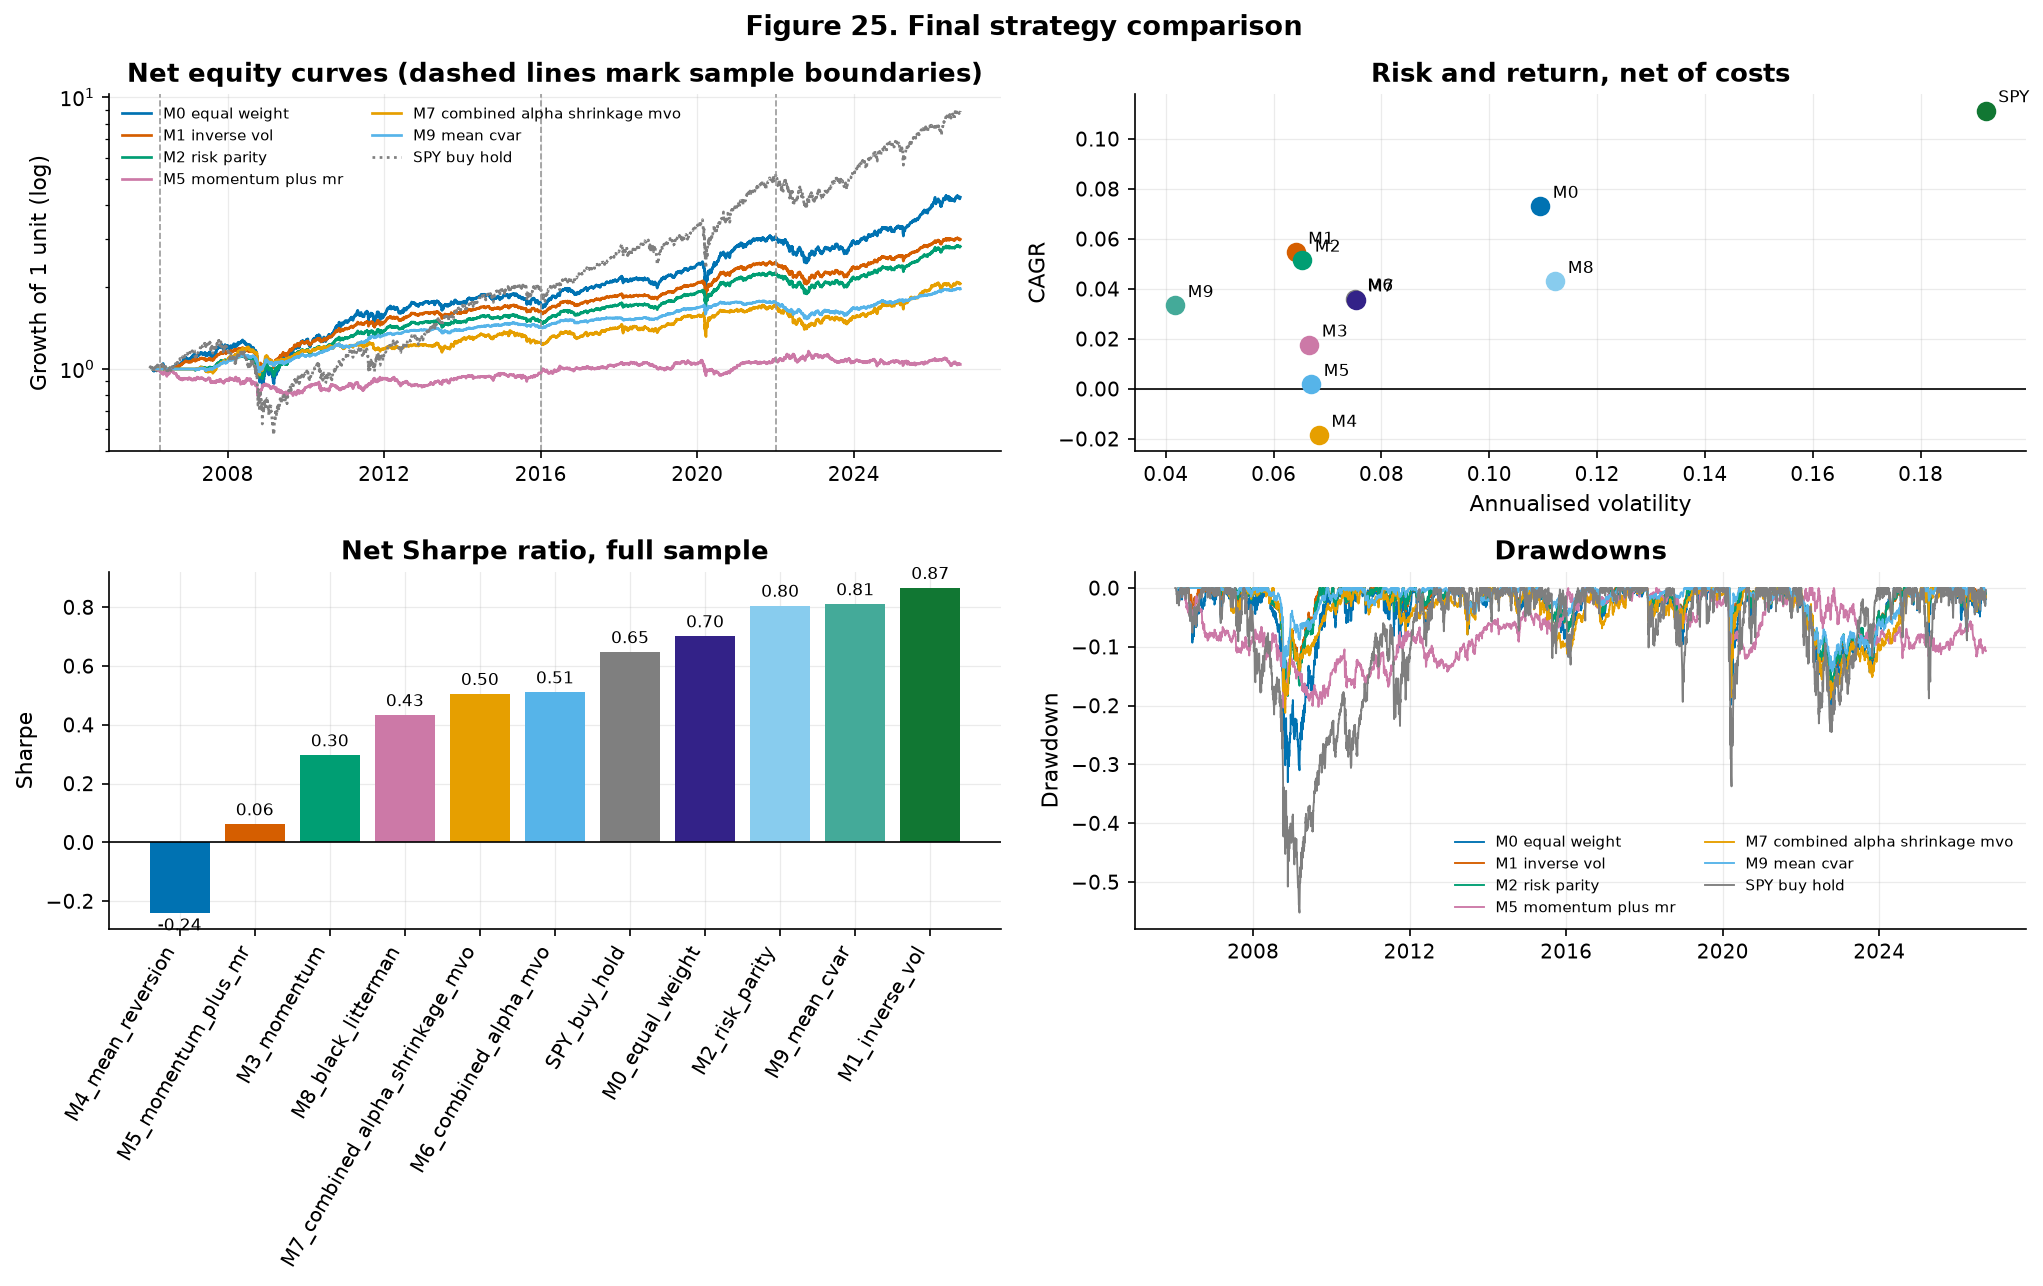
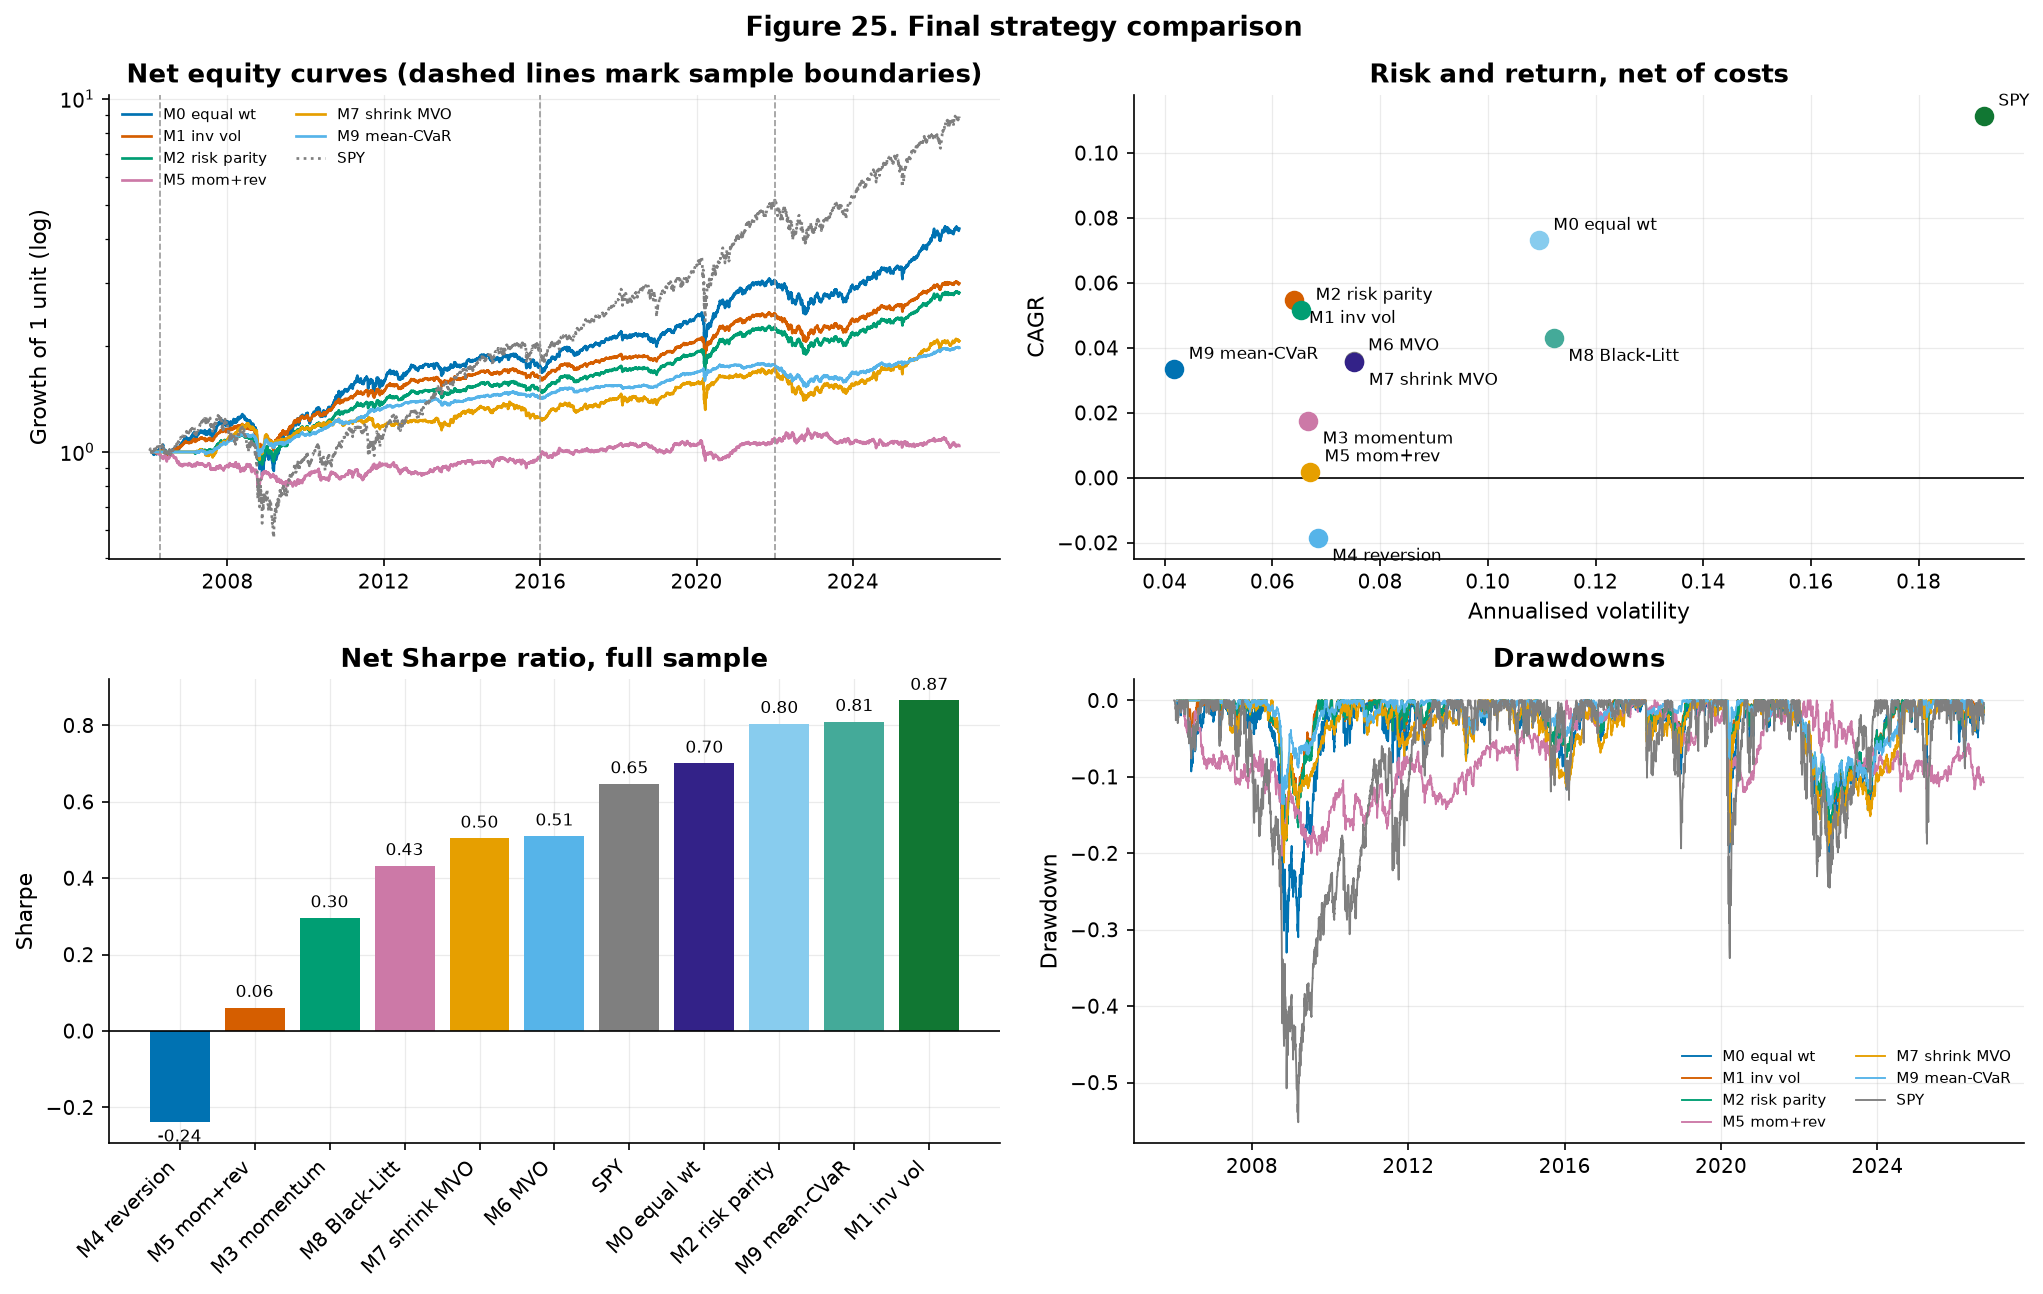
Readable labels in the final comparison figure
M6 and M7 sit almost on top of each other in risk/return space and their
labels overprinted; offsets now alternate. Model names are shortened for the
axis so the Sharpe bars are not buried under 30-character labels.

Claude-Session: https://claude.ai/code/session_01DSSeu1FozHnuA5rm1CsBZd

diff --git a/experiments/stage12_results.py b/experiments/stage12_results.py
@@ -33,6 +33,24 @@ ALL_MODELS = ["M0_equal_weight", "M1_inverse_vol", "M2_risk_parity", "M3_momentu
               "M7_combined_alpha_shrinkage_mvo", "M8_black_litterman", "M9_mean_cvar"]
 
 
+def short_label(name: str) -> str:
+    """Compact axis label: 'M7_combined_alpha_shrinkage_mvo' -> 'M7 shrink mvo'."""
+    aliases = {
+        "M0_equal_weight": "M0 equal wt",
+        "M1_inverse_vol": "M1 inv vol",
+        "M2_risk_parity": "M2 risk parity",
+        "M3_momentum": "M3 momentum",
+        "M4_mean_reversion": "M4 reversion",
+        "M5_momentum_plus_mr": "M5 mom+rev",
+        "M6_combined_alpha_mvo": "M6 MVO",
+        "M7_combined_alpha_shrinkage_mvo": "M7 shrink MVO",
+        "M8_black_litterman": "M8 Black-Litt",
+        "M9_mean_cvar": "M9 mean-CVaR",
+        "SPY_buy_hold": "SPY",
+    }
+    return aliases.get(name, name.replace("_", " "))
+
+
 def figure_final(context, streams, samples, table, path):
     fig, axes = new_axes(2, 2, figsize=(13.8, 8.8))
 
@@ -40,7 +58,7 @@ def figure_final(context, streams, samples, table, path):
         curve = cumulative_returns(series.dropna())
         style = "-" if not name.startswith("SPY") else ":"
         axes[0, 0].plot(curve.index, curve.to_numpy(), style, color=PALETTE[i % len(PALETTE)],
-                        linewidth=1.3, label=name.replace("_", " "))
+                        linewidth=1.3, label=short_label(name))
     for window in samples.values():
         if window.start is not None:
             axes[0, 0].axvline(window.start, color="#999999", linestyle="--", linewidth=0.8)
@@ -49,25 +67,29 @@ def figure_final(context, streams, samples, table, path):
     axes[0, 0].set_title("Net equity curves (dashed lines mark sample boundaries)")
     axes[0, 0].legend(ncol=2, fontsize=7)
 
-    risk_return = table.dropna(subset=["ann_vol", "cagr"])
+    risk_return = table.dropna(subset=["ann_vol", "cagr"]).sort_values("ann_vol")
+    # Alternate the label offset so near-identical points (M6/M7 sit almost on
+    # top of each other) stay readable instead of overprinting.
     for i, (name, row) in enumerate(risk_return.iterrows()):
         axes[0, 1].scatter(row["ann_vol"], row["cagr"], s=70, color=PALETTE[i % len(PALETTE)],
                            zorder=5)
-        axes[0, 1].annotate(name.split("_")[0], (row["ann_vol"], row["cagr"]),
-                            textcoords="offset points", xytext=(6, 4), fontsize=8)
+        offset = (7, 5) if i % 2 == 0 else (7, -11)
+        axes[0, 1].annotate(short_label(name), (row["ann_vol"], row["cagr"]),
+                            textcoords="offset points", xytext=offset, fontsize=8)
     axes[0, 1].set_xlabel("Annualised volatility")
     axes[0, 1].set_ylabel("CAGR")
     axes[0, 1].set_title("Risk and return, net of costs")
     axes[0, 1].axhline(0.0, color="black", linewidth=0.8)
 
     sharpes = table["sharpe"].dropna().sort_values()
+    sharpes.index = [short_label(n) for n in sharpes.index]
     bar_with_values(axes[1, 0], sharpes, "Net Sharpe ratio, full sample", "Sharpe", "{:.2f}",
-                    rotation=60)
+                    rotation=45)
 
     for i, (name, series) in enumerate(streams.items()):
         dd = drawdown(cumulative_returns(series.dropna()))
         axes[1, 1].plot(dd.index, dd.to_numpy(), color=PALETTE[i % len(PALETTE)], linewidth=0.9,
-                        label=name.replace("_", " "))
+                        label=short_label(name))
     axes[1, 1].set_ylabel("Drawdown")
     axes[1, 1].set_title("Drawdowns")
     axes[1, 1].legend(ncol=2, fontsize=7)

diff --git a/experiments/registry.md b/experiments/registry.md
@@ -3,7 +3,7 @@
 Append-only log of every experiment run by the pipeline, including the
 ones that were rejected. Generated by `src/utils/experiments.py`.
 
-Total experiments: **19**
+Total experiments: **24**
 
 | ID | Stage | Hypothesis | Decision | Headline result |
 |----|-------|------------|----------|-----------------|
@@ -26,6 +26,11 @@ Total experiments: **19**
 | EXP-017 | stage11_validation | momentum performance is robust across its parameter family, not the product of one fortunate choice. | **INVESTIGATE** | best=0.3021; best_minus_median=0.2264; best_to_median_ratio=3.994 |
 | EXP-018 | stage11_validation | mean_reversion performance is robust across its parameter family, not the product of one fortunate choice. | **REJECT** | best=0.2076; best_minus_median=0.3595; best_to_median_ratio=-1.367 |
 | EXP-019 | stage11_validation | Out-of-sample walk-forward performance justifies the model ladder's added complexity. | **RETAIN** | best_oos_ci_lower=0.4129; best_oos_ci_upper=1.283; best_oos_deflated_probability=0.8638 |
+| EXP-020 | stage12_results | Final model comparison: which step of the ladder actually improved risk-adjusted returns after costs? (spec §55-§56) | **RETAIN** | best_full_sample_model=M1_inverse_vol; best_full_sample_sharpe=0.8653; best_minus_equal_weight=0.1644 |
+| EXP-021 | stage14_extensions | Cointegrated pairs within this ETF universe produce tradable relative-value returns after costs (Extension E, Ch. 22 §22.3.3-4). | **INVESTIGATE** | best_pair=SPY/VNQ; best_pair_gross_sharpe=0.3225; best_pair_net_sharpe=0.1732 |
+| EXP-022 | stage14_extensions | Returns unexplained by the first three principal components mean revert, and a factor-neutral book built on them is profitable net of costs (Extension F, Ch. 22 §22.3.5-7). | **REJECT** | ann_turnover=13.25; best_ic=0.01919; breakeven_cost_bps=1.124 |
+| EXP-023 | stage14_extensions | Cointegrated pairs within this ETF universe produce tradable relative-value returns after costs (Extension E, Ch. 22 §22.3.3-4). | **INVESTIGATE** | best_pair=SPY/VNQ; best_pair_gross_sharpe=0.3225; best_pair_net_sharpe=0.1732 |
+| EXP-024 | stage14_extensions | Returns unexplained by the first three principal components mean revert, and a factor-neutral book built on them is profitable net of costs (Extension F, Ch. 22 §22.3.5-7). | **REJECT** | ann_turnover=13.25; best_ic=0.01919; breakeven_cost_bps=1.124 |
 
 ## Detail
 
@@ -294,4 +299,74 @@ Total experiments: **19**
 - **Results**: `{"best_oos_ci_lower": 0.4129175315140558, "best_oos_ci_upper": 1.282558187688368, "best_oos_deflated_probability": 0.8638491474477559, "best_oos_model": "M1_inverse_vol", "best_oos_sharpe": 0.8351692393108778, "mean_sharpe_decay": -0.11398218553493616, "models_tested": 6, "models_with_positive_oos_sharpe": 6}`
 - **Decision**: **RETAIN**
 - **Notes**: The best out-of-sample model is M1_inverse_vol at a Sharpe ratio of 0.84, with a block-bootstrap 90% interval of [0.41, 1.28]. The interval is what the headline number should be read against: a Sharpe ratio of 0.8 over twenty years still carries an interval wide enough to contain materially worse outcomes, and nothing in this project is precise enough to distinguish the top few models from one another.
+
+### EXP-020 - Final model comparison: which step of the ladder actually improved risk-adjusted returns after costs? (spec §55-§56)
+
+- **Stage**: stage12_results
+- **Date**: 2026-09-22T14:14:03+00:00
+- **Data version**: `f13af1fed1f7`
+- **Config fingerprint**: `12f9cfd14055`
+- **Train period**: n/a
+- **Test period**: n/a
+- **Cost assumption**: 10.0 bps
+- **Parameters**: `{"models": ["M0_equal_weight", "M1_inverse_vol", "M2_risk_parity", "M3_momentum", "M4_mean_reversion", "M5_momentum_plus_mr", "M6_combined_alpha_mvo", "M7_combined_alpha_shrinkage_mvo", "M8_black_litterman", "M9_mean_cvar", "SPY_buy_hold"], "samples": {"development": "Development [2006-04-10 .. 2015-12-31]", "final_holdout": "Final Holdout [2022-01-01 .. now]", "validation": "Validation [2016-01-01 .. 2021-12-31]"}}`
+- **Results**: `{"best_full_sample_model": "M1_inverse_vol", "best_full_sample_sharpe": 0.8653455250313856, "best_minus_equal_weight": 0.16437613815547059, "equal_weight_sharpe": 0.700969386875915, "models_beating_equal_weight": 3, "models_compared": 11, "spy_sharpe": 0.6470529111197453}`
+- **Decision**: **RETAIN**
+- **Notes**: M1_inverse_vol has the highest full-sample net Sharpe ratio at 0.87, against 0.70 for equal weight and 0.65 for SPY buy-and-hold. The improvement over the naive benchmark comes almost entirely from risk-based weighting, not from alpha: every model that requires estimating expected returns lands below the models that do not.
+
+### EXP-021 - Cointegrated pairs within this ETF universe produce tradable relative-value returns after costs (Extension E, Ch. 22 §22.3.3-4).
+
+- **Stage**: stage14_extensions
+- **Date**: 2026-09-22T14:19:17+00:00
+- **Data version**: `f13af1fed1f7`
+- **Config fingerprint**: `12f9cfd14055`
+- **Train period**: hedge ratio and cointegration test on data to 2015-12-31
+- **Test period**: n/a
+- **Cost assumption**: 10.0 bps
+- **Parameters**: `{"candidates": ["GLD/SLV", "SPY/QQQ", "SPY/IWM", "EFA/EEM", "IEF/TLT", "LQD/HYG", "AGG/IEF", "SPY/VNQ", "GLD/DBC", "SHY/IEF"], "entry_sigma": 2.0, "exit_sigma": 0.5, "zscore_window": 63}`
+- **Results**: `{"best_pair": "SPY/VNQ", "best_pair_gross_sharpe": 0.3224544393207791, "best_pair_net_sharpe": 0.1731832778380447, "median_pair_net_sharpe": -0.14628699487551128, "pairs_cointegrated": 0, "pairs_tested": 10, "pairs_tradable": 0}`
+- **Decision**: **INVESTIGATE**
+- **Notes**: Pairs were selected by cointegration on the development sample only and then traded over the whole history with that hedge ratio, so the later portion is genuinely out of sample. The screen is the discipline: a pair that is 0.95 correlated but not cointegrated has a spread that can wander off forever, and trading it is a bet on nothing.
+
+### EXP-022 - Returns unexplained by the first three principal components mean revert, and a factor-neutral book built on them is profitable net of costs (Extension F, Ch. 22 §22.3.5-7).
+
+- **Stage**: stage14_extensions
+- **Date**: 2026-09-22T14:19:17+00:00
+- **Data version**: `f13af1fed1f7`
+- **Config fingerprint**: `12f9cfd14055`
+- **Train period**: n/a
+- **Test period**: n/a
+- **Cost assumption**: 10.0 bps
+- **Parameters**: `{"n_components": 3, "refit_step": 21, "window": 252, "zscore_window": 21}`
+- **Results**: `{"ann_turnover": 13.249071152800342, "best_ic": 0.019194943446440453, "breakeven_cost_bps": 1.12382328326006, "gross_sharpe": 0.059352847752906765, "ic_at_h1": 0.004788295772108172, "max_residual_factor_exposure": 0.035075125438638846, "net_sharpe": -0.26830012903681366, "pc1_explained": 0.5077466996999026, "pc1_to_pc3_explained": 0.8016117593048256, "t_at_h1": 1.2830857111422698}`
+- **Decision**: **REJECT**
+- **Notes**: The construction does what it claims -- residual factor exposures of the final book are at most 0.035 -- so any result is genuinely factor neutral rather than a disguised beta. Whether it survives costs is the same question that decided every other alpha strategy in this project, and the breakeven cost is the number that answers it.
+
+### EXP-023 - Cointegrated pairs within this ETF universe produce tradable relative-value returns after costs (Extension E, Ch. 22 §22.3.3-4).
+
+- **Stage**: stage14_extensions
+- **Date**: 2026-09-22T14:21:17+00:00
+- **Data version**: `f13af1fed1f7`
+- **Config fingerprint**: `12f9cfd14055`
+- **Train period**: hedge ratio and cointegration test on data to 2015-12-31
+- **Test period**: n/a
+- **Cost assumption**: 10.0 bps
+- **Parameters**: `{"candidates": ["GLD/SLV", "SPY/QQQ", "SPY/IWM", "EFA/EEM", "IEF/TLT", "LQD/HYG", "AGG/IEF", "SPY/VNQ", "GLD/DBC", "SHY/IEF"], "entry_sigma": 2.0, "exit_sigma": 0.5, "zscore_window": 63}`
+- **Results**: `{"best_pair": "SPY/VNQ", "best_pair_gross_sharpe": 0.3224544393207791, "best_pair_net_sharpe": 0.1731832778380447, "median_pair_net_sharpe": -0.14628699487551128, "pairs_cointegrated": 0, "pairs_tested": 10, "pairs_tradable": 0}`
+- **Decision**: **INVESTIGATE**
+- **Notes**: Pairs were selected by cointegration on the development sample only and then traded over the whole history with that hedge ratio, so the later portion is genuinely out of sample. The screen is the discipline: a pair that is 0.95 correlated but not cointegrated has a spread that can wander off forever, and trading it is a bet on nothing.
+
+### EXP-024 - Returns unexplained by the first three principal components mean revert, and a factor-neutral book built on them is profitable net of costs (Extension F, Ch. 22 §22.3.5-7).
+
+- **Stage**: stage14_extensions
+- **Date**: 2026-09-22T14:21:17+00:00
+- **Data version**: `f13af1fed1f7`
+- **Config fingerprint**: `12f9cfd14055`
+- **Train period**: n/a
+- **Test period**: n/a
+- **Cost assumption**: 10.0 bps
+- **Parameters**: `{"n_components": 3, "refit_step": 21, "window": 252, "zscore_window": 21}`
+- **Results**: `{"ann_turnover": 13.249071152800342, "best_ic": 0.019194943446440453, "breakeven_cost_bps": 1.12382328326006, "gross_sharpe": 0.059352847752906765, "ic_at_h1": 0.004788295772108172, "max_residual_factor_exposure": 0.035075125438638846, "net_sharpe": -0.26830012903681366, "pc1_explained": 0.5077466996999026, "pc1_to_pc3_explained": 0.8016117593048256, "t_at_h1": 1.2830857111422698}`
+- **Decision**: **REJECT**
+- **Notes**: The construction does what it claims -- residual factor exposures of the final book are at most 0.035 -- so any result is genuinely factor neutral rather than a disguised beta. Whether it survives costs is the same question that decided every other alpha strategy in this project, and the breakeven cost is the number that answers it.
 
